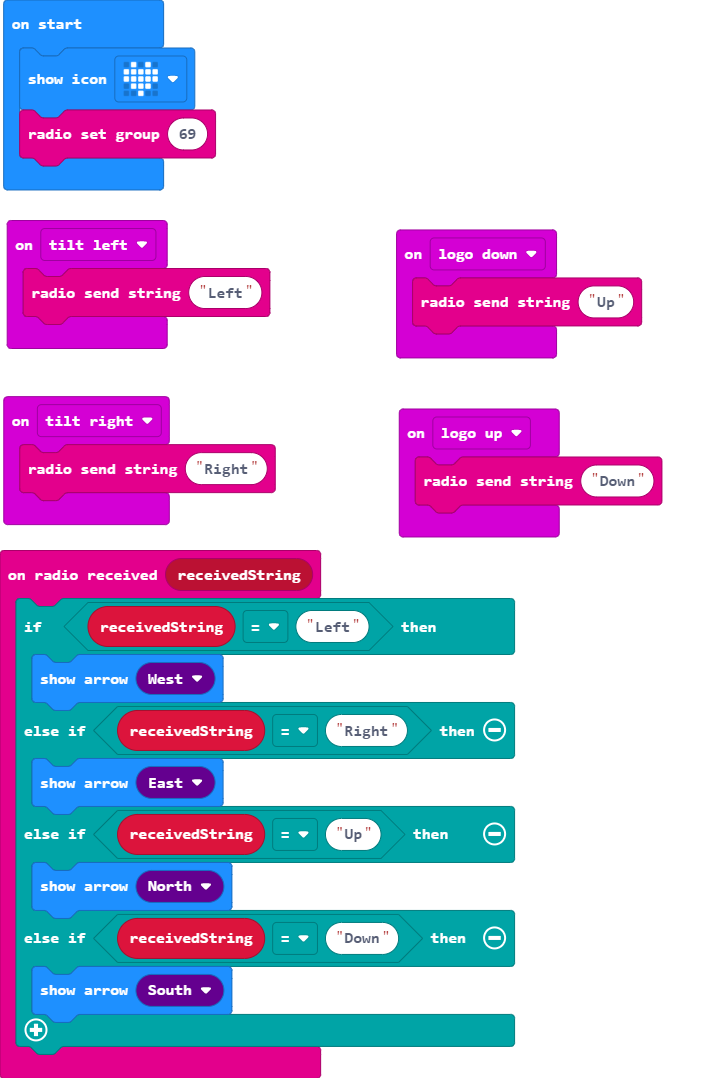
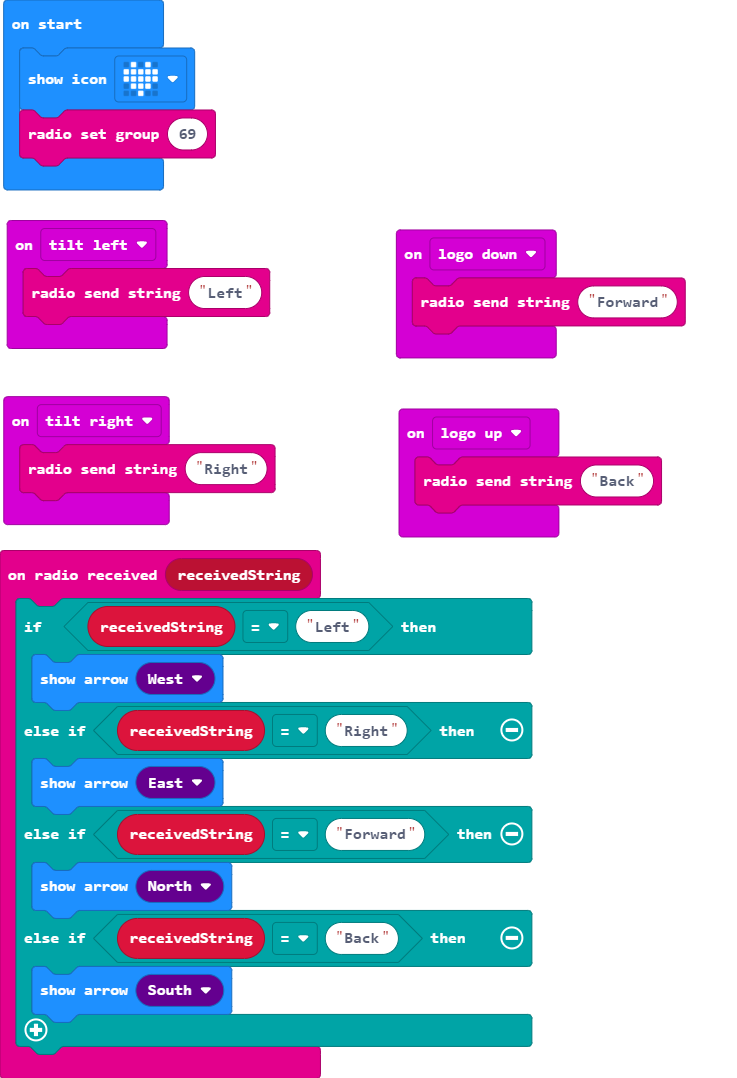
Update main.blocks, main.ts

diff --git a/main.ts b/main.ts
@@ -1,5 +1,5 @@
 input.onGesture(Gesture.LogoUp, function () {
-    radio.sendString("Down")
+    radio.sendString("Back")
 })
 input.onGesture(Gesture.TiltLeft, function () {
     radio.sendString("Left")
@@ -9,9 +9,9 @@ radio.onReceivedString(function (receivedString) {
         basic.showArrow(ArrowNames.West)
     } else if (receivedString == "Right") {
         basic.showArrow(ArrowNames.East)
-    } else if (receivedString == "Up") {
+    } else if (receivedString == "Forward") {
         basic.showArrow(ArrowNames.North)
-    } else if (receivedString == "Down") {
+    } else if (receivedString == "Back") {
         basic.showArrow(ArrowNames.South)
     }
 })
@@ -19,7 +19,7 @@ input.onGesture(Gesture.TiltRight, function () {
     radio.sendString("Right")
 })
 input.onGesture(Gesture.LogoDown, function () {
-    radio.sendString("Up")
+    radio.sendString("Forward")
 })
 basic.showIcon(IconNames.Heart)
 radio.setGroup(69)
